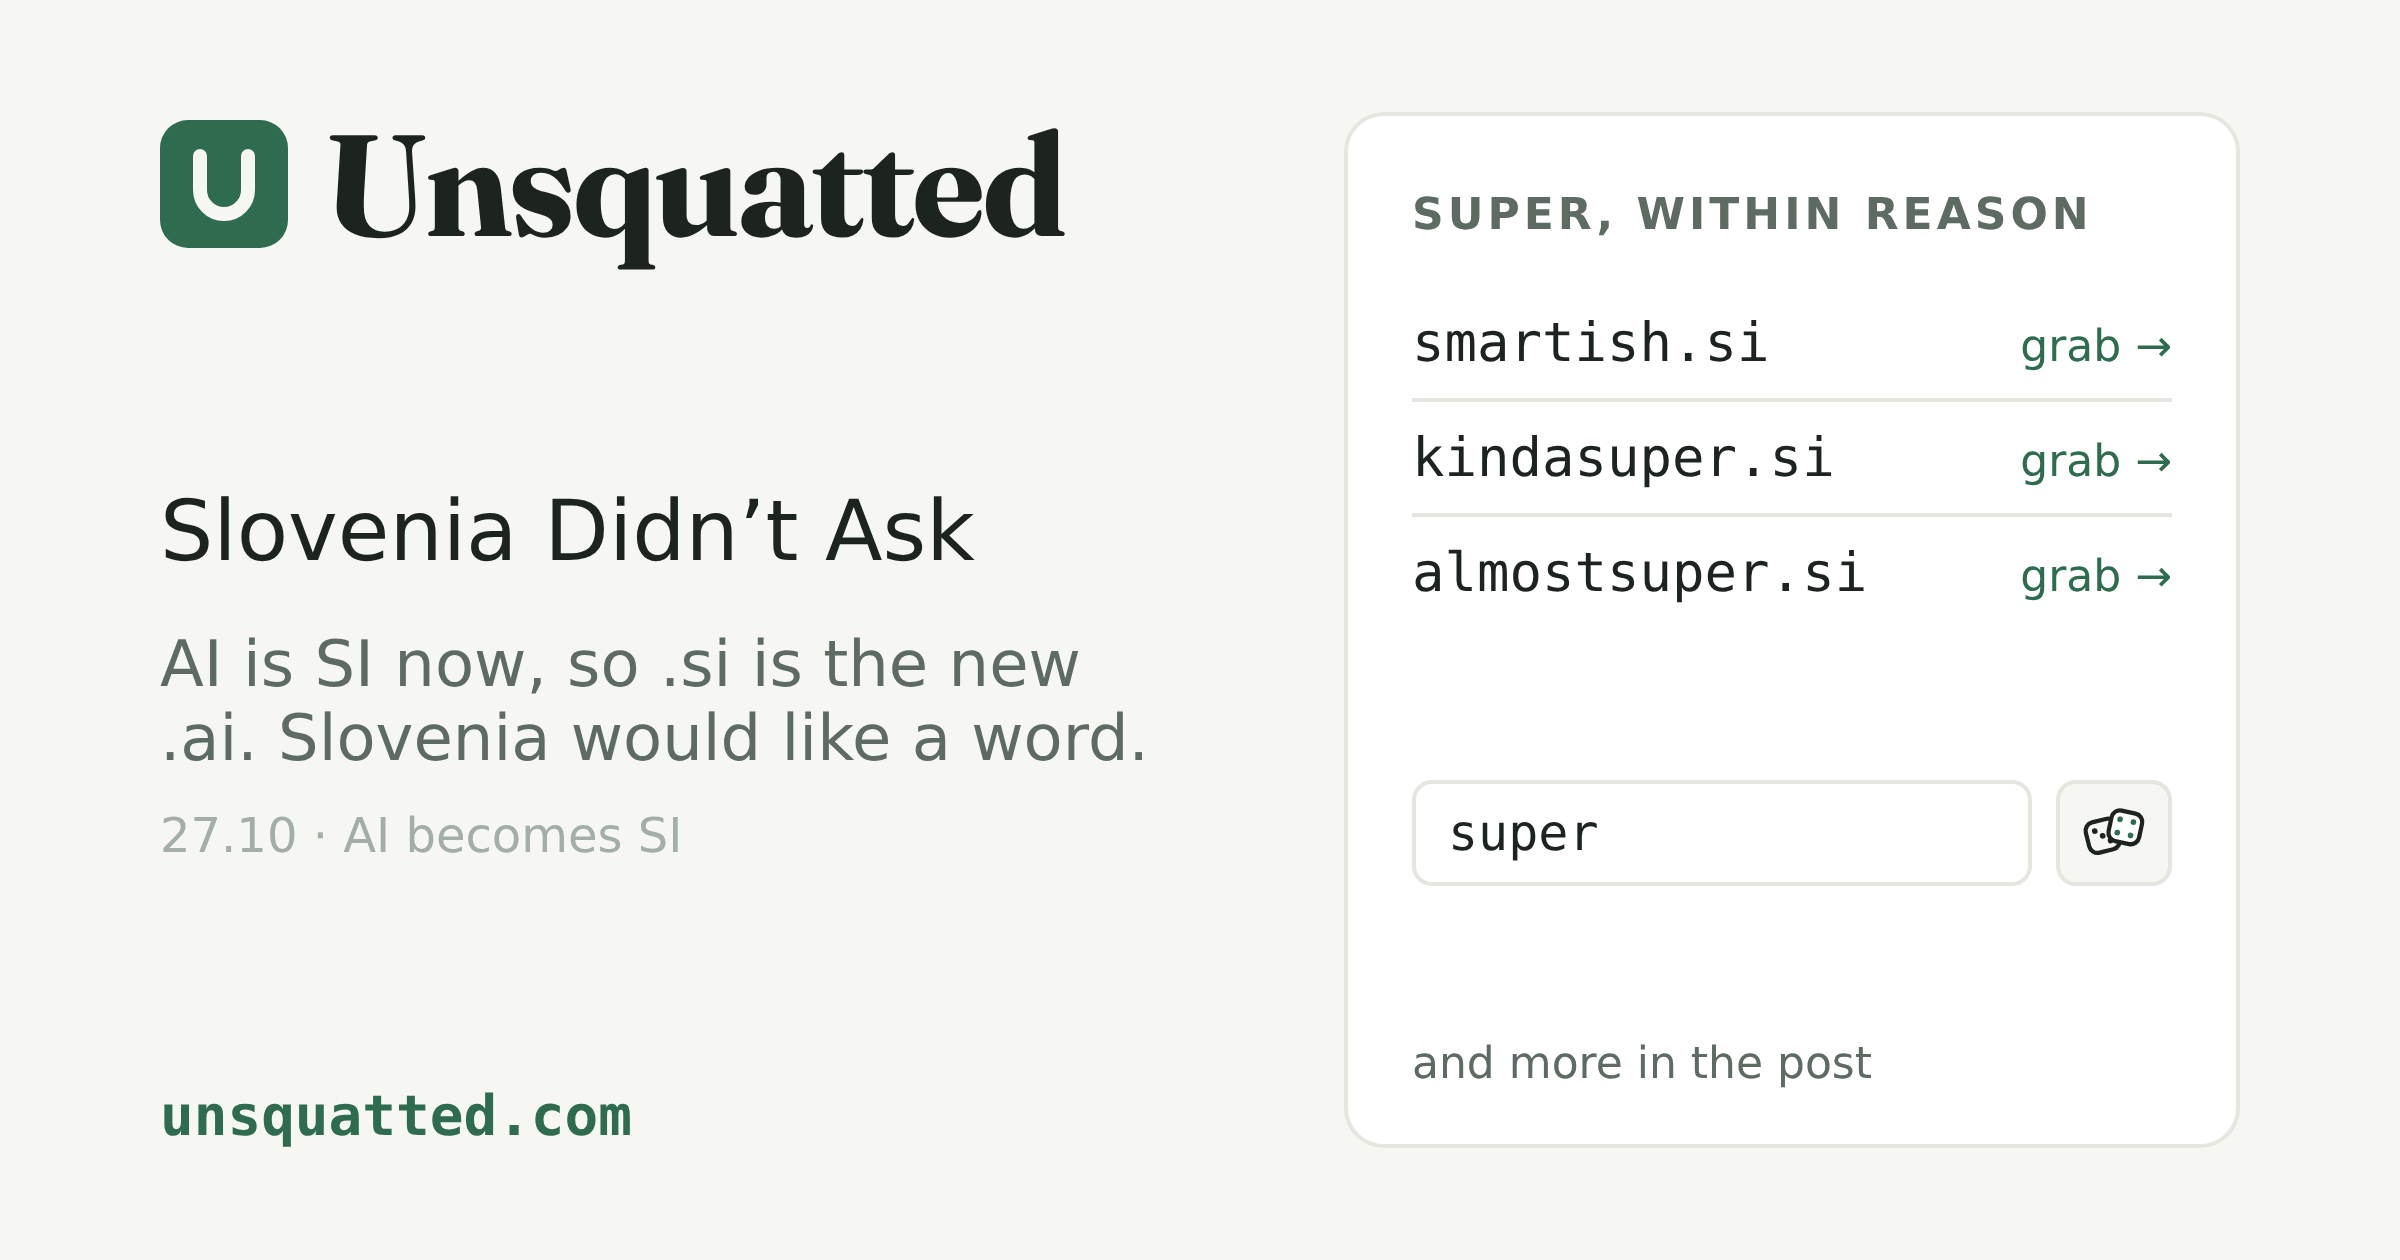
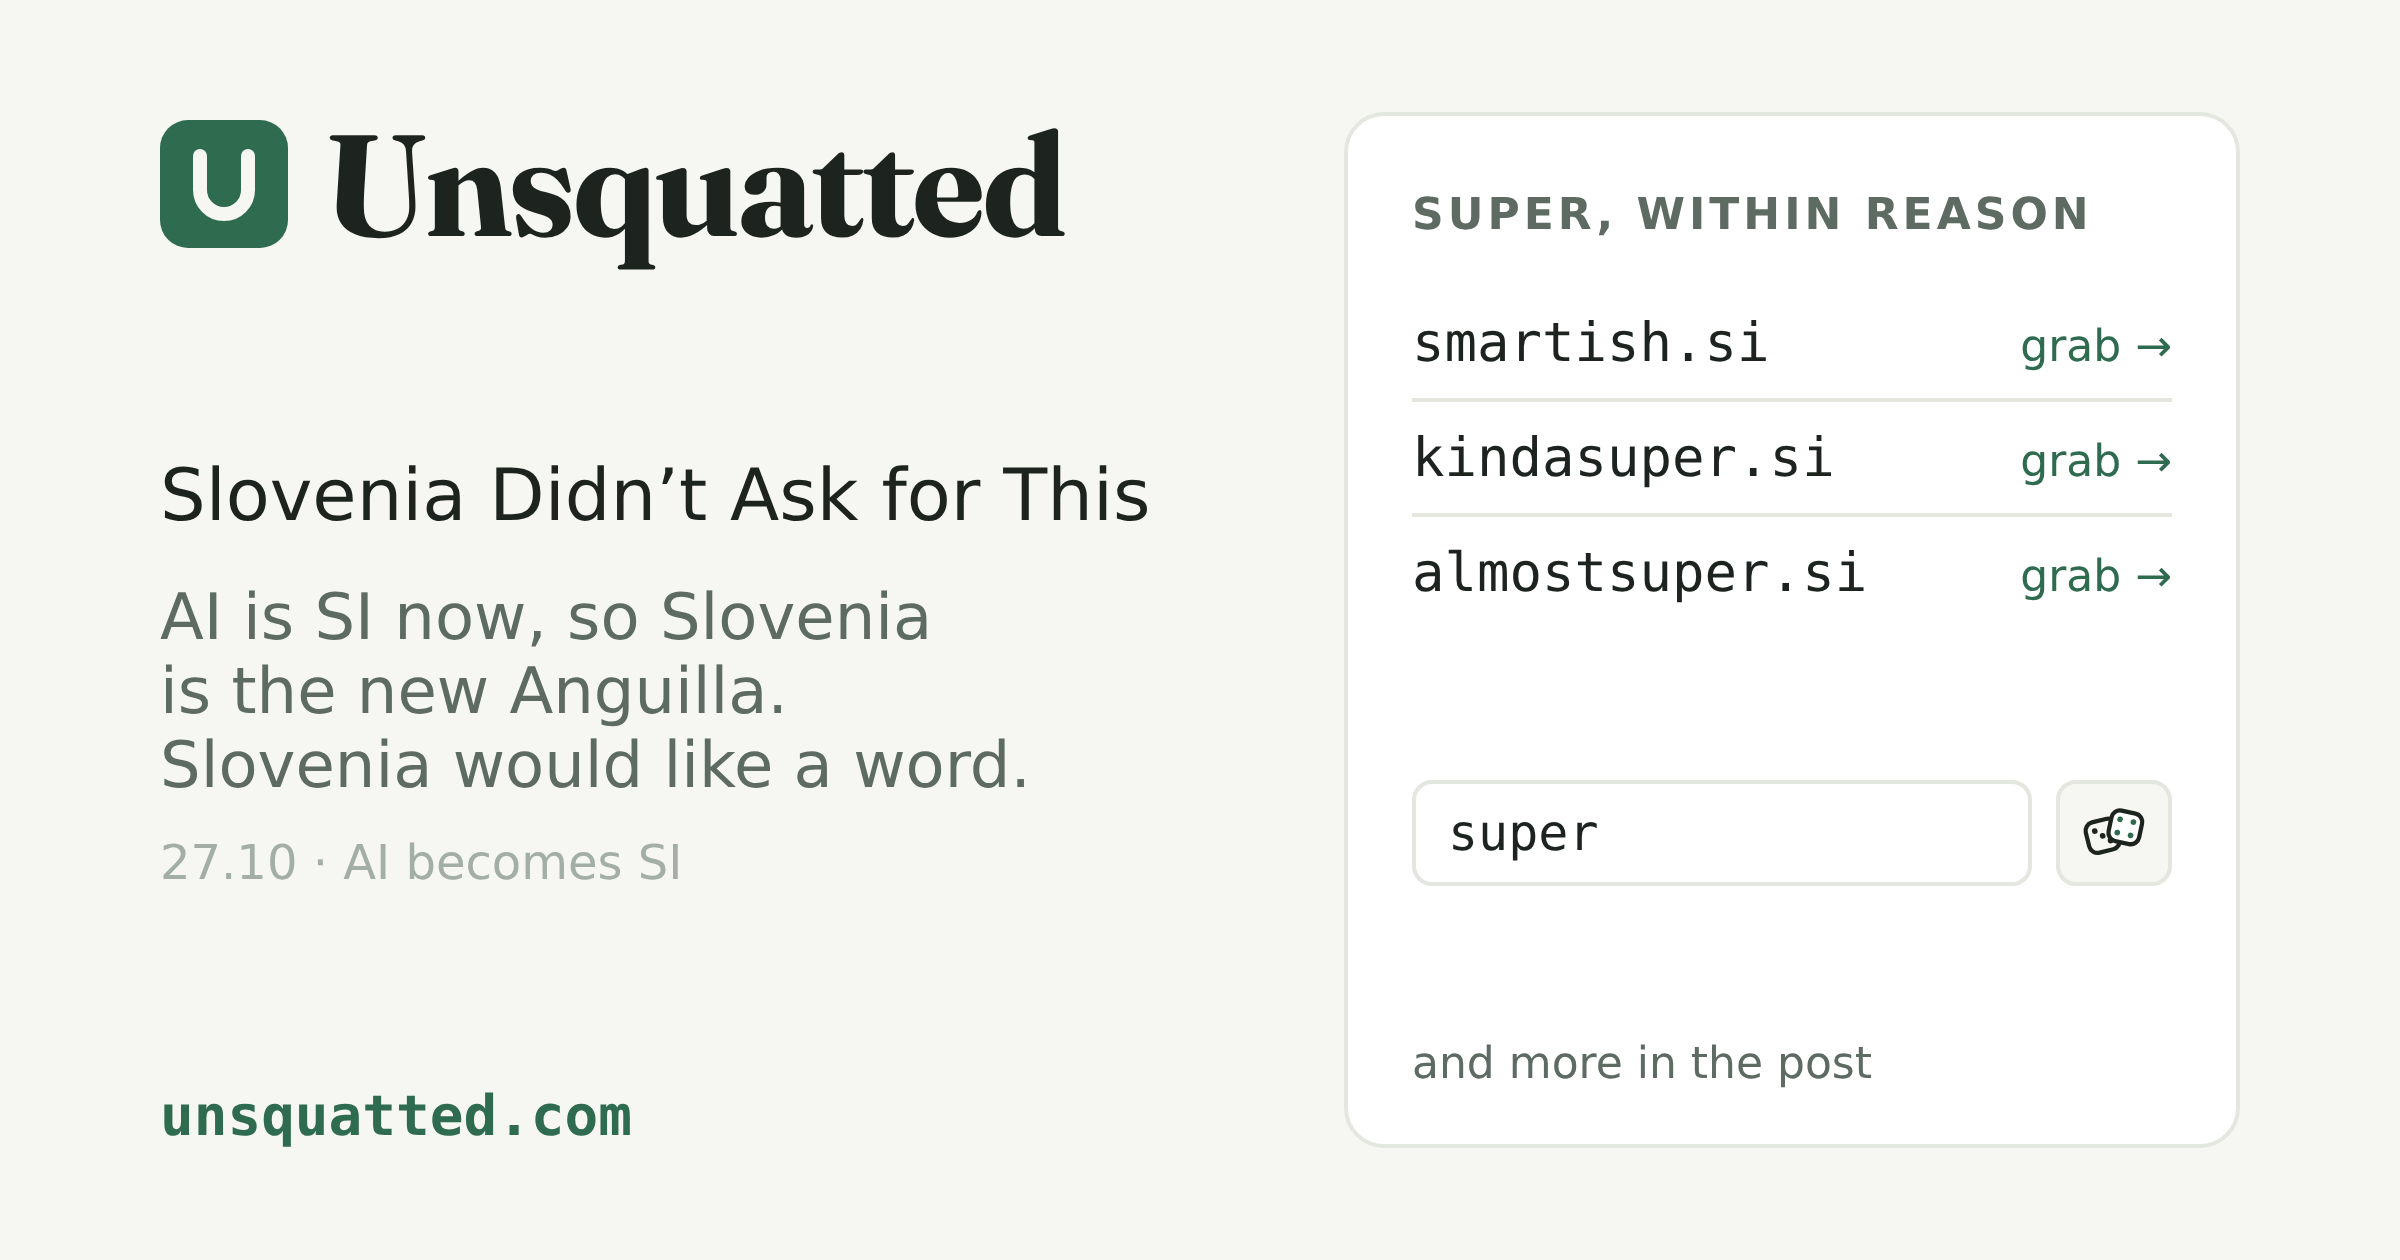
feat(unsquatted): post cards set the title smaller, so it holds one line
A post's title is a headline, not the site card's slogan, so the card sets
it at 36px and balanced; Slovenia Didn't Ask for This fits on one line.
The .si post's lede drops its dotted zones, which the panel beside it
already shows.

Claude-Session: https://claude.ai/code/session_01DaohkFBd3LDkjGBNsJjeGw

Changed region(s): [[0.0625, 0.3714, 0.4688, 0.7119]]

diff --git a/src/unsquatted/scripts/lib/unsquatted-card.ts b/src/unsquatted/scripts/lib/unsquatted-card.ts
@@ -99,6 +99,8 @@ type CardContent = {
   /** The field under the rows: a word typed in it, or its placeholder. */
   field: { typed: boolean; text: string };
   more: string;
+  /** A post's title, set smaller than the site's lede, which is a slogan. */
+  titled: boolean;
 };
 
 /** The site card: the hero's lede beside the best listed names. */
@@ -113,6 +115,7 @@ export function unsquattedCard(): StagedPage {
     domains: variedPicks(SHOWN).map(({ domain }) => domain),
     field: { typed: false, text: 'Your name…' },
     more: more(LASTING_PICKS.length - SHOWN),
+    titled: false,
   });
 }
 
@@ -141,6 +144,7 @@ export function postCard({
     domains: list.domains.slice(0, SHOWN),
     field: { typed: true, text: escapeHtml(word) },
     more: 'and more in the post',
+    titled: true,
   });
 }
 
@@ -152,6 +156,7 @@ function card({
   domains,
   field,
   more: moreLine,
+  titled,
 }: CardContent): StagedPage {
   const rows = domains
     .map(
@@ -194,6 +199,7 @@ function card({
         line-height: 1;
       }
       .headline { margin: auto 0 0; font-size: 42px; line-height: 1.33; }
+      .headline.title { font-size: 36px; line-height: 1.25; text-wrap: balance; }
       .subline { margin: 20px 0 0; font-size: 32px; color: ${INK_DIM}; text-wrap: balance; }
       .headline sup { font-size: 0.6em; line-height: 0; }
       .note { margin: 16px 0 auto; font-size: 24px; color: ${INK_FAINT}; }
@@ -252,7 +258,7 @@ function card({
       ${MARK}
         <span class="wordmark">${escapeHtml(name)}</span>
       </header>
-      <p class="headline">${headline}</p>
+      <p class="headline${titled ? ' title' : ''}">${headline}</p>
       <p class="subline">${subline}</p>
       <p class="note">${note}</p>
       <span class="url">${escapeHtml(withoutScheme(url))}</span>

diff --git a/sites/unsquatted/public/blog/super-intelligence.md b/sites/unsquatted/public/blog/super-intelligence.md
@@ -1,5 +1,6 @@
 ---
-description: AI is SI now, so .si is the new .ai. Slovenia would like a word.
+description: >-
+  AI is SI now, so Slovenia is the new Anguilla. Slovenia would like a word.
 date: 2026-11-07
 author: unnamed
 occasion:
@@ -7,7 +8,7 @@ occasion:
   date: 2026-10-27
 ---
 
-# Slovenia Didn’t Ask
+# Slovenia Didn’t Ask for This
 
 On the 27th of October, a post from the President of the United States
 announced that “AI/Artificial Intelligence” would be officially banned “in all
